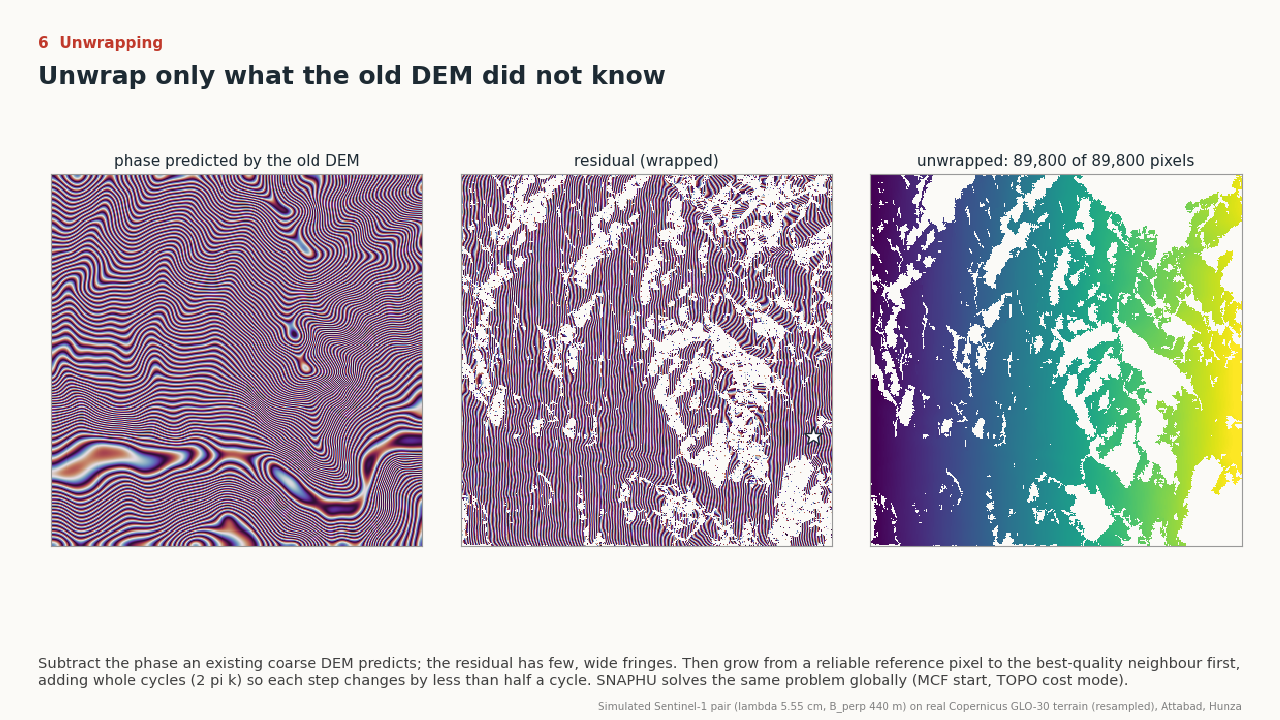
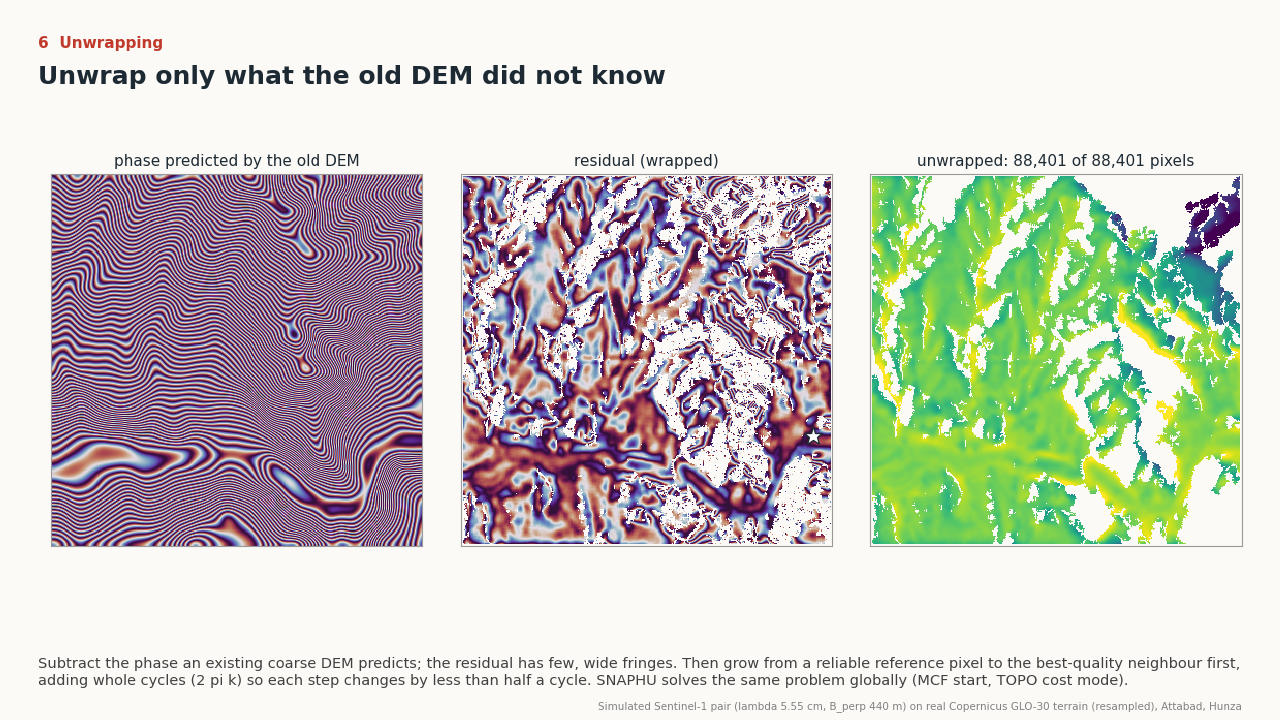
Roads routed town to town (adds M-15, GT Road N-5, M-1; fixes name overcapture); animation fixed (flat-earth sign, DEM-assisted unwrapping)

Changed region(s): [[0.3438, 0.2139, 0.9688, 0.7639], [0.875, 0.2139, 0.9062, 0.2444]]

diff --git a/src/01_roads.py b/src/01_roads.py
@@ -1,11 +1,15 @@
-"""Corridor roads, bridges, tunnels and dams from OpenStreetMap (Geofabrik Pakistan extract, GDAL OSM driver).
+"""Corridor roads as driven: each road routed through the OpenStreetMap network between its towns, in order.
 
     python src/01_roads.py
 
-Reads data/raw/osm_corridor.gpkg (made with ogr2ogr from pakistan-latest.osm.pbf, box in config/corridor.toml).
-Picks each corridor road by OSM ref, then by name, from trunk/primary/secondary ways; flags bridges and tunnels;
-cuts each road into 100 m segments (the unit of risk later). Writes data/processed/corridor.gpkg layers roads,
-segments, structures and outputs/roads_summary.csv. UTM 43N (EPSG:32643) for lengths.
+Reads data/raw/osm_corridor.gpkg (ogr2ogr from the Geofabrik Pakistan extract, box in config/corridor.toml).
+For each road in config/corridor.toml: build a graph from the OSM ways of the allowed classes (nodes are shared OSM
+vertices, so junctions connect; edges weighted by length), snap each town to the nearest graph node, and join the
+shortest paths town to town. This replaces selecting by ref or name, which picked unrelated roads that share a name.
+Each road also keeps which OSM ways it used, so bridges and tunnels come with it, and every 100 m segment records the
+stretch it is on ("Abbottabad - Mansehra"). Snap distances are reported: a town more than 1 km from the network is
+flagged, because its coordinate or the allowed classes are wrong.
+Writes data/processed/corridor.gpkg (layers roads, segments, structures, dams, towns), outputs/roads_summary.csv.
 """
 import re
 import sys
@@ -13,10 +17,11 @@ import tomllib
 from pathlib import Path
 
 import geopandas as gpd
+import networkx as nx
 import numpy as np
 import pandas as pd
-from shapely.geometry import LineString
-from shapely.ops import substring
+from shapely.geometry import LineString, Point
+from shapely.ops import linemerge, substring
 
 sys.stdout.reconfigure(encoding="utf-8")
 R = Path(__file__).resolve().parents[1]
@@ -29,6 +34,18 @@ def tag(s, k):
     return m.group(1) if m else None
 
 
+def graph(ways):
+    G = nx.Graph()
+    for idx, g in zip(ways.index, ways.geometry):
+        lines = [g] if g.geom_type == "LineString" else list(g.geoms)
+        for ln in lines:
+            c = [(round(x, 2), round(y, 2)) for x, y in ln.coords]
+            for a, b in zip(c, c[1:]):
+                if a != b:
+                    G.add_edge(a, b, w=float(np.hypot(a[0] - b[0], a[1] - b[1])), way=idx)
+    return G
+
+
 def main():
     r = gpd.read_file(R / "data/raw/osm_corridor.gpkg", layer="roads").to_crs(UTM)
     ot = r.other_tags.fillna("")
@@ -36,42 +53,64 @@ def main():
     r["bridge"] = ot.str.contains('"bridge"=>"yes"|"bridge"=>"viaduct"')
     r["tunnel"] = ot.str.contains('"tunnel"=>"yes"')
     r["name_en"] = ot.map(lambda s: tag(s, "name:en")).fillna(r["name"])
-    main_ = r[r.highway.isin(["trunk", "primary", "secondary", "trunk_link", "primary_link", "tertiary"])]
-    out = []
+    roads, segs, towns, summ = [], [], [], []
     for rd in CFG["road"]:
         refs = {x.replace("-", "").upper() for x in rd.get("refs", [])}
-        by_ref = main_.ref.fillna("").str.replace("-", "").str.upper().str.split(";").map(lambda v: bool(refs & set(v)))
-        nm = "|".join(map(re.escape, rd.get("names", [])))
-        by_name = main_.name_en.fillna("").str.contains(nm, case=False) if nm else False
-        sel = main_[by_ref | by_name]
-        if rd["id"] == "astore":                       # Astore road has no ref: secondary/tertiary ways in the Astore valley
-            sel = main_[main_.name_en.fillna("").str.contains("Astore", case=False)]
-        out.append(sel.assign(road=rd["id"], road_name=rd["name"]))
-    roads = pd.concat(out).drop_duplicates(subset="osm_id")
-    roads = gpd.GeoDataFrame(roads, crs=UTM)
-    roads["km"] = roads.length / 1000
-    # 100 m segments
-    segs = []
-    for _, w in roads.iterrows():
-        g = w.geometry
-        n = max(1, int(np.ceil(g.length / 100)))
-        for i in range(n):
-            s = substring(g, i * g.length / n, (i + 1) * g.length / n)
-            if isinstance(s, LineString):
-                segs.append({"road": w.road, "osm_id": w.osm_id, "bridge": w.bridge, "tunnel": w.tunnel, "geometry": s})
-    segs = gpd.GeoDataFrame(segs, crs=UTM)
-    segs["seg_id"] = np.arange(len(segs))
-    st = roads[roads.bridge | roads.tunnel][["road", "name_en", "bridge", "tunnel", "km", "geometry"]]
+        by_ref = r.ref.fillna("").str.replace("-", "").str.upper().str.split(";").map(lambda v: bool(refs & set(v)))
+        ways = r[r.highway.isin(rd["classes"]) | by_ref]          # allowed classes, plus any way carrying the road's number
+        G = graph(ways)
+        comp = max(nx.connected_components(G), key=len)          # keep the main network; islands cannot be routed
+        nodes = np.array(list(comp))
+        pts = gpd.GeoSeries(gpd.points_from_xy([v[1] for v in rd["via"]], [v[2] for v in rd["via"]]), crs=4326).to_crs(UTM)
+        snapped = []
+        for (nm, _, _), p in zip(rd["via"], pts):
+            d = np.hypot(nodes[:, 0] - p.x, nodes[:, 1] - p.y); i = int(d.argmin())
+            snapped.append(tuple(nodes[i]))
+            towns.append({"road": rd["id"], "town": nm, "snap_m": round(float(d[i])), "geometry": Point(nodes[i])})
+            if d[i] > 1000:
+                print(f"  ! {rd['id']}: {nm} is {d[i] / 1000:.1f} km from the {'/'.join(rd['classes'][:2])} network", flush=True)
+        used = []
+        for k, (a, b) in enumerate(zip(snapped, snapped[1:])):
+            try:
+                path = nx.shortest_path(G, a, b, weight="w")
+            except nx.NetworkXNoPath:
+                print(f"  ! {rd['id']}: no path {rd['via'][k][0]} -> {rd['via'][k + 1][0]}", flush=True); continue
+            line = LineString(path)
+            stretch = f"{rd['via'][k][0]} - {rd['via'][k + 1][0]}"
+            ways_used = {G[u][v]["way"] for u, v in zip(path, path[1:])}
+            used += list(ways_used)
+            br = r.loc[list(ways_used)]
+            roads.append({"road": rd["id"], "road_name": rd["name"], "stretch": stretch, "km": line.length / 1000,
+                          "bridge_km": br[br.bridge].length.sum() / 1000, "tunnel_km": br[br.tunnel].length.sum() / 1000, "geometry": line})
+            n = max(1, int(np.ceil(line.length / 100)))
+            sub = br[br.bridge | br.tunnel]
+            for i in range(n):
+                s = substring(line, i * line.length / n, (i + 1) * line.length / n)
+                hit = sub[sub.distance(s.interpolate(0.5, normalized=True)) < 15] if len(sub) else sub
+                segs.append({"road": rd["id"], "stretch": stretch, "bridge": bool(len(hit) and hit.bridge.any()),
+                             "tunnel": bool(len(hit) and hit.tunnel.any()), "geometry": s})
+        rr = [x for x in roads if x["road"] == rd["id"]]
+        summ.append({"road": rd["name"], "km": round(sum(x["km"] for x in rr), 1), "stretches": len(rr),
+                     "bridge_km": round(sum(x["bridge_km"] for x in rr), 2), "tunnel_km": round(sum(x["tunnel_km"] for x in rr), 2),
+                     "worst_snap_m": max(t["snap_m"] for t in towns if t["road"] == rd["id"]),
+                     "worst_snap_town": max((t for t in towns if t["road"] == rd["id"]), key=lambda t: t["snap_m"])["town"]})
+        print(summ[-1], flush=True)
+    roads = gpd.GeoDataFrame(roads, crs=UTM); segs = gpd.GeoDataFrame(segs, crs=UTM); segs["seg_id"] = np.arange(len(segs))
+    towns = gpd.GeoDataFrame(towns, crs=UTM)
+    st = r[(r.bridge | r.tunnel) & r.highway.isin({c for rd in CFG["road"] for c in rd["classes"]})]
+    st = st[st.intersects(roads.buffer(20).union_all())][["highway", "ref", "name_en", "bridge", "tunnel", "geometry"]]
     dams = gpd.read_file(R / "data/raw/osm_corridor.gpkg", layer="dams").to_crs(UTM)
     o = R / "data/processed/corridor.gpkg"
-    roads[["osm_id", "road", "road_name", "highway", "ref", "name_en", "bridge", "tunnel", "km", "geometry"]].to_file(o, layer="roads")
-    segs.to_file(o, layer="segments"); st.to_file(o, layer="structures"); dams[["osm_id", "name", "geometry"]].to_file(o, layer="dams")
-    s = roads.groupby("road_name").agg(km=("km", "sum"), ways=("osm_id", "size"),
-                                       bridge_km=("km", lambda v: v[roads.loc[v.index, "bridge"]].sum()),
-                                       tunnel_km=("km", lambda v: v[roads.loc[v.index, "tunnel"]].sum())).round(2)
-    s.to_csv(R / "outputs/roads_summary.csv")
-    print(s.to_string()); print("segments", len(segs), "dams", len(dams), dams.name.dropna().unique()[:20].tolist())
-    print("tunnels:", sorted(roads[roads.tunnel].name_en.dropna().unique().tolist()))
+    if o.exists():
+        arch = R / "data/processed/_archive_2026-11-16"; arch.mkdir(exist_ok=True)
+        if not (arch / o.name).exists():
+            o.rename(arch / o.name)
+        else:
+            o.unlink()
+    roads.to_file(o, layer="roads"); segs.to_file(o, layer="segments"); st.to_file(o, layer="structures")
+    dams[["osm_id", "name", "geometry"]].to_file(o, layer="dams"); towns.to_file(o, layer="towns")
+    pd.DataFrame(summ).to_csv(R / "outputs/roads_summary.csv", index=False)
+    print("segments", len(segs), "structures", len(st), "tunnels:", sorted(st[st.tunnel].name_en.dropna().unique().tolist()))
 
 
 if __name__ == "__main__":
